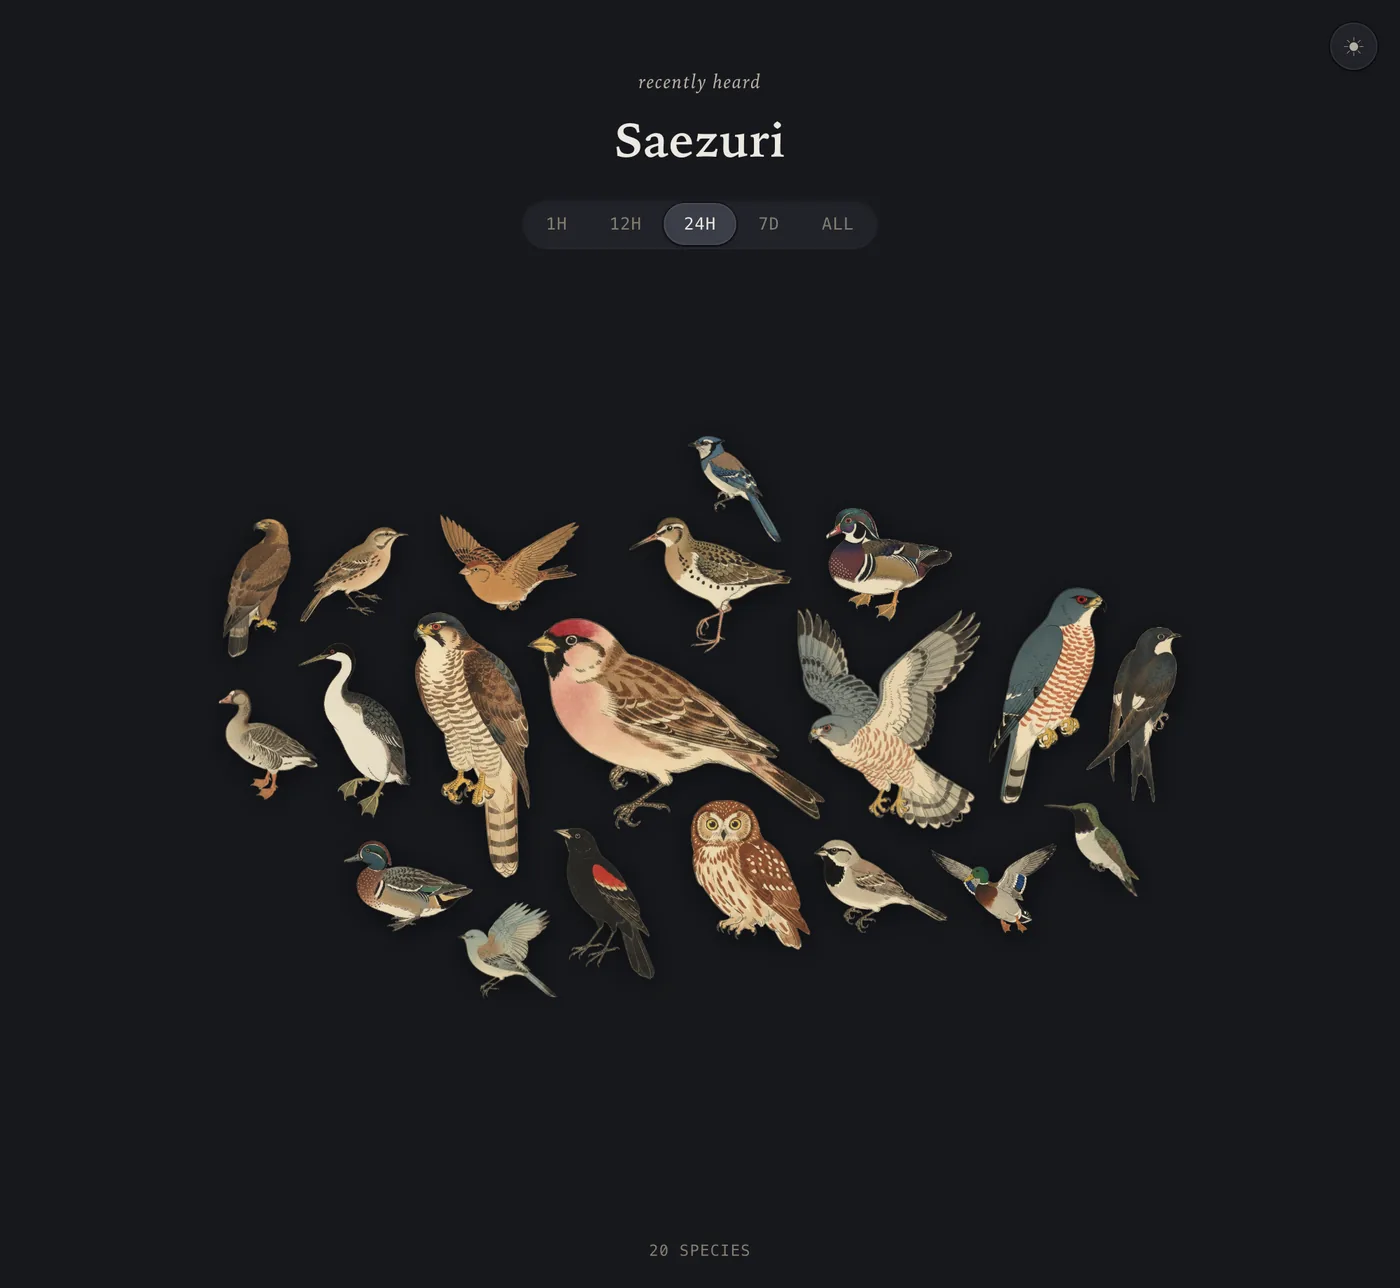
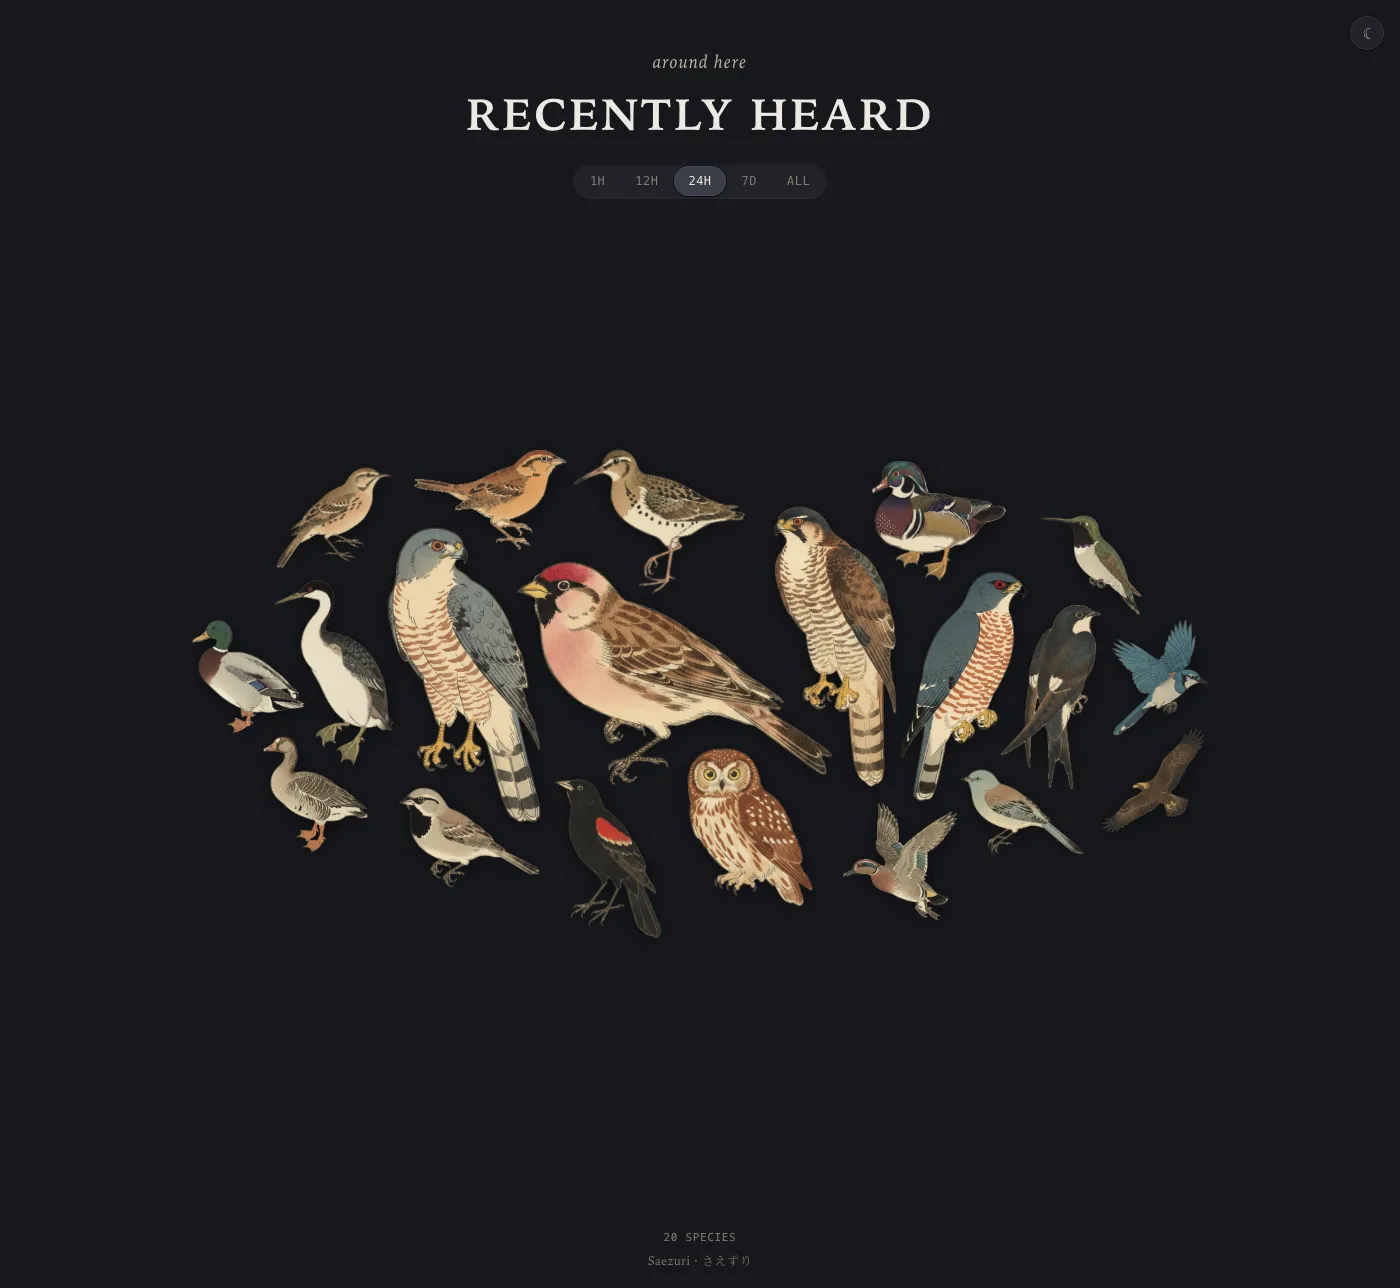
feat: update headings (closes #2) (#5)
* feat: update headings (closes #2)

* fix: mobile layout issues

Changed region(s): [[0.1229, 0.3416, 0.86, 0.7764], [0.3379, 0.0311, 0.6757, 0.2174], [0.4607, 0.9627, 0.5221, 0.9938]]

diff --git a/site/src/styles/site.css b/site/src/styles/site.css
@@ -72,21 +72,79 @@ a {
 /* ---- Hero ---- */
 .hero {
   text-align: center;
-  padding: 92px 0 8px;
-}
-.hero .eyebrow {
-  margin: 0 0 10px;
-  font-style: italic;
-  color: var(--ink-2);
-  letter-spacing: 0.06em;
-  font-size: clamp(13px, 1.4vw, 17px);
+  /* Vertical only — horizontal gutter comes from the .wrap container.
+     (Using the `padding` shorthand here would reset .wrap's side padding to 0.) */
+  padding-block: 92px 8px;
 }
 .hero h1 {
-  margin: 0;
+  /* fit-content + auto margins: centered, but only as wide as the wordmark,
+     so the hover/focus reveal is triggered by the text itself, not the whole row. */
+  width: fit-content;
+  margin: 0 auto;
   font-weight: 700;
   font-size: clamp(44px, 8vw, 78px);
   letter-spacing: 0.01em;
   line-height: 1.02;
+}
+
+/* Title reveal: the romaji wordmark blur-crossfades to the kana さえずり (which
+   means "birdsong"), with a small gloss, on hover or keyboard focus. */
+.wordmark {
+  outline: none;
+  cursor: default;
+}
+.wm-stack {
+  display: inline-grid;
+}
+.wm-stack > span {
+  grid-area: 1 / 1;
+  transition:
+    opacity 450ms ease,
+    filter 450ms ease;
+}
+.wm-kana {
+  opacity: 0;
+  filter: blur(6px);
+  font-family: 'Hiragino Mincho ProN', 'Yu Mincho', var(--font-serif);
+}
+.wordmark:hover .wm-romaji,
+.wordmark:focus-within .wm-romaji {
+  opacity: 0;
+  filter: blur(6px);
+}
+.wordmark:hover .wm-kana,
+.wordmark:focus-within .wm-kana {
+  opacity: 1;
+  filter: blur(0);
+}
+.wm-gloss {
+  display: block;
+  margin-top: 8px;
+  font-family: var(--font-serif);
+  font-style: italic;
+  font-weight: 400;
+  font-size: clamp(15px, 2vw, 20px);
+  letter-spacing: 0.02em;
+  color: var(--ink-soft);
+  opacity: 0;
+  transition: opacity 450ms ease;
+}
+.wordmark:hover .wm-gloss,
+.wordmark:focus-within .wm-gloss {
+  opacity: 1;
+}
+@media (prefers-reduced-motion: reduce) {
+  .wm-stack > span,
+  .wm-gloss {
+    transition: none;
+  }
+  .wm-kana,
+  .wordmark:hover .wm-romaji,
+  .wordmark:focus-within .wm-romaji,
+  .wordmark:hover .wm-kana,
+  .wordmark:focus-within .wm-kana {
+    filter: none;
+  }
 }
 .hero .tagline {
   margin: 16px auto 0;
@@ -170,7 +228,7 @@ a {
 
 /* ---- Sections ---- */
 .section {
-  padding: 56px 0;
+  padding-block: 56px;
   border-top: 1px solid var(--hairline);
 }
 .section h2 {
@@ -252,6 +310,12 @@ a {
   color: var(--ink);
 }
 
+/* Scroll container so a wide table can never push the page wider than the
+   viewport (which would break the mobile gutters). */
+.table-scroll {
+  overflow-x: auto;
+  -webkit-overflow-scrolling: touch;
+}
 .envtable {
   width: 100%;
   border-collapse: collapse;
@@ -272,11 +336,12 @@ a {
 .envtable code {
   font-family: var(--font-mono);
   font-size: 13px;
+  overflow-wrap: anywhere;
 }
 
 /* ---- Footer ---- */
 .footer {
-  padding: 48px 0 72px;
+  padding-block: 48px 72px;
   border-top: 1px solid var(--hairline);
   color: var(--ink-soft);
   font-size: 14px;
@@ -296,6 +361,6 @@ a {
     padding-top: 72px;
   }
   .section {
-    padding: 44px 0;
+    padding-block: 44px;
   }
 }

diff --git a/src/index.css b/src/index.css
@@ -43,7 +43,8 @@ body {
   margin: 0;
   font-weight: 700;
   font-size: clamp(26px, 3.4vw, 44px);
-  letter-spacing: 0.01em;
+  letter-spacing: 0.06em;
+  text-transform: uppercase;
   color: var(--ink);
 }
 .view {
@@ -193,6 +194,17 @@ body {
 }
 .status-warn {
   color: var(--live);
+}
+/* Quiet product signature in the footer — the app's home for the Japanese name.
+   Opts out of the status line's uppercasing so it reads "Saezuri", not "SAEZURI". */
+.wordmark {
+  display: block;
+  margin-top: 6px;
+  font-family: var(--font-serif);
+  text-transform: none;
+  letter-spacing: 0.04em;
+  font-size: 12px;
+  color: var(--ink-soft);
 }
 
 /* No-birds state: an empty-nest illustration sits where the collage would be,

diff --git a/src/App.tsx b/src/App.tsx
@@ -33,7 +33,7 @@ export default function App() {
         <ThemeToggle />
       </div>
 
-      <Header eyebrow="recently heard" title="Saezuri" />
+      <Header eyebrow="around here" title="recently heard" />
 
       <div className="controls">
         <WindowPicker value={windowPreset} onChange={setWindowPreset} />
@@ -56,6 +56,7 @@ export default function App() {
           truncated={!USE_MOCK && live.truncated}
           error={!USE_MOCK ? live.error : null}
         />
+        <span className="wordmark">Saezuri · さえずり</span>
       </footer>
     </div>
   )